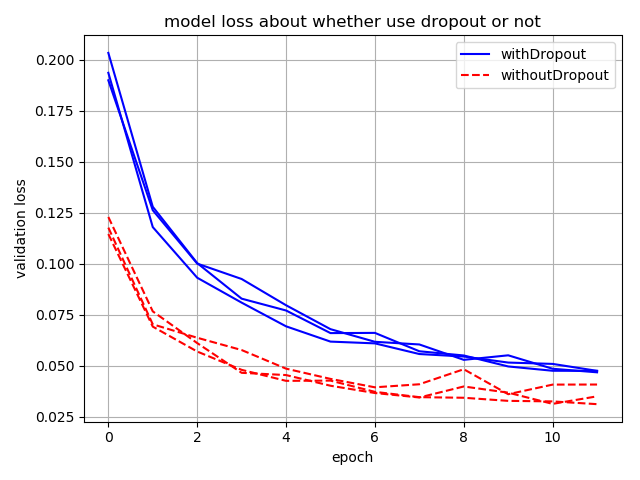
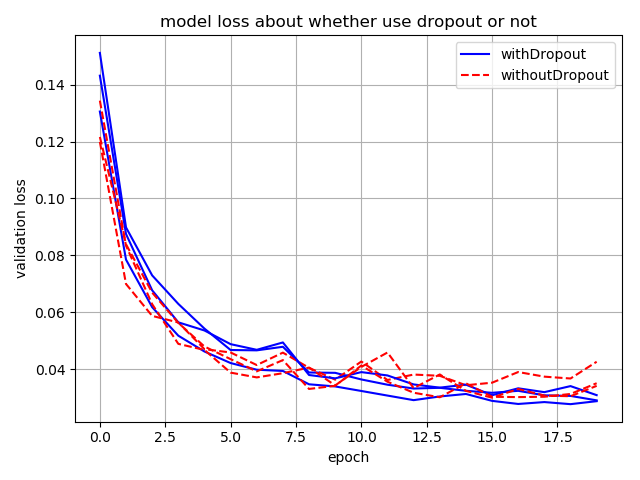
increase the epoch

diff --git a/pytorch/pytorch_MNIST.py b/pytorch/pytorch_MNIST.py
@@ -13,7 +13,7 @@ class Net_with(nn.Module):
         super(Net_with, self).__init__()
         self.conv1 = nn.Conv2d(1, 10, kernel_size=5)
         self.conv2 = nn.Conv2d(10, 20, kernel_size=5)
-        self.conv2_drop = nn.Dropout2d()
+        self.conv2_drop = nn.Dropout2d(0.2)
         self.fc1 = nn.Linear(320, 50)
         self.fc2 = nn.Linear(50, 10)
 
@@ -22,7 +22,7 @@ class Net_with(nn.Module):
         x = F.relu(F.max_pool2d(self.conv2_drop(self.conv2(x)), 2))
         x = x.view(-1, 320)
         x = F.relu(self.fc1(x))
-        x = F.dropout(x, training=self.training)
+        x = F.dropout(x,0.25, training=self.training)
         x = self.fc2(x)
         return F.log_softmax(x, dim=1)
 
@@ -104,7 +104,7 @@ def main():
                         help='input batch size for training (default: 64)')
     parser.add_argument('--test-batch-size', type=int, default=1000, metavar='N',
                         help='input batch size for testing (default: 1000)')
-    parser.add_argument('--epochs', type=int, default=12, metavar='N',
+    parser.add_argument('--epochs', type=int, default=20, metavar='N',
                         help='number of epochs to train (default: 10)')
     parser.add_argument('--lr', type=float, default=0.01, metavar='LR',
                         help='learning rate (default: 0.01)')
